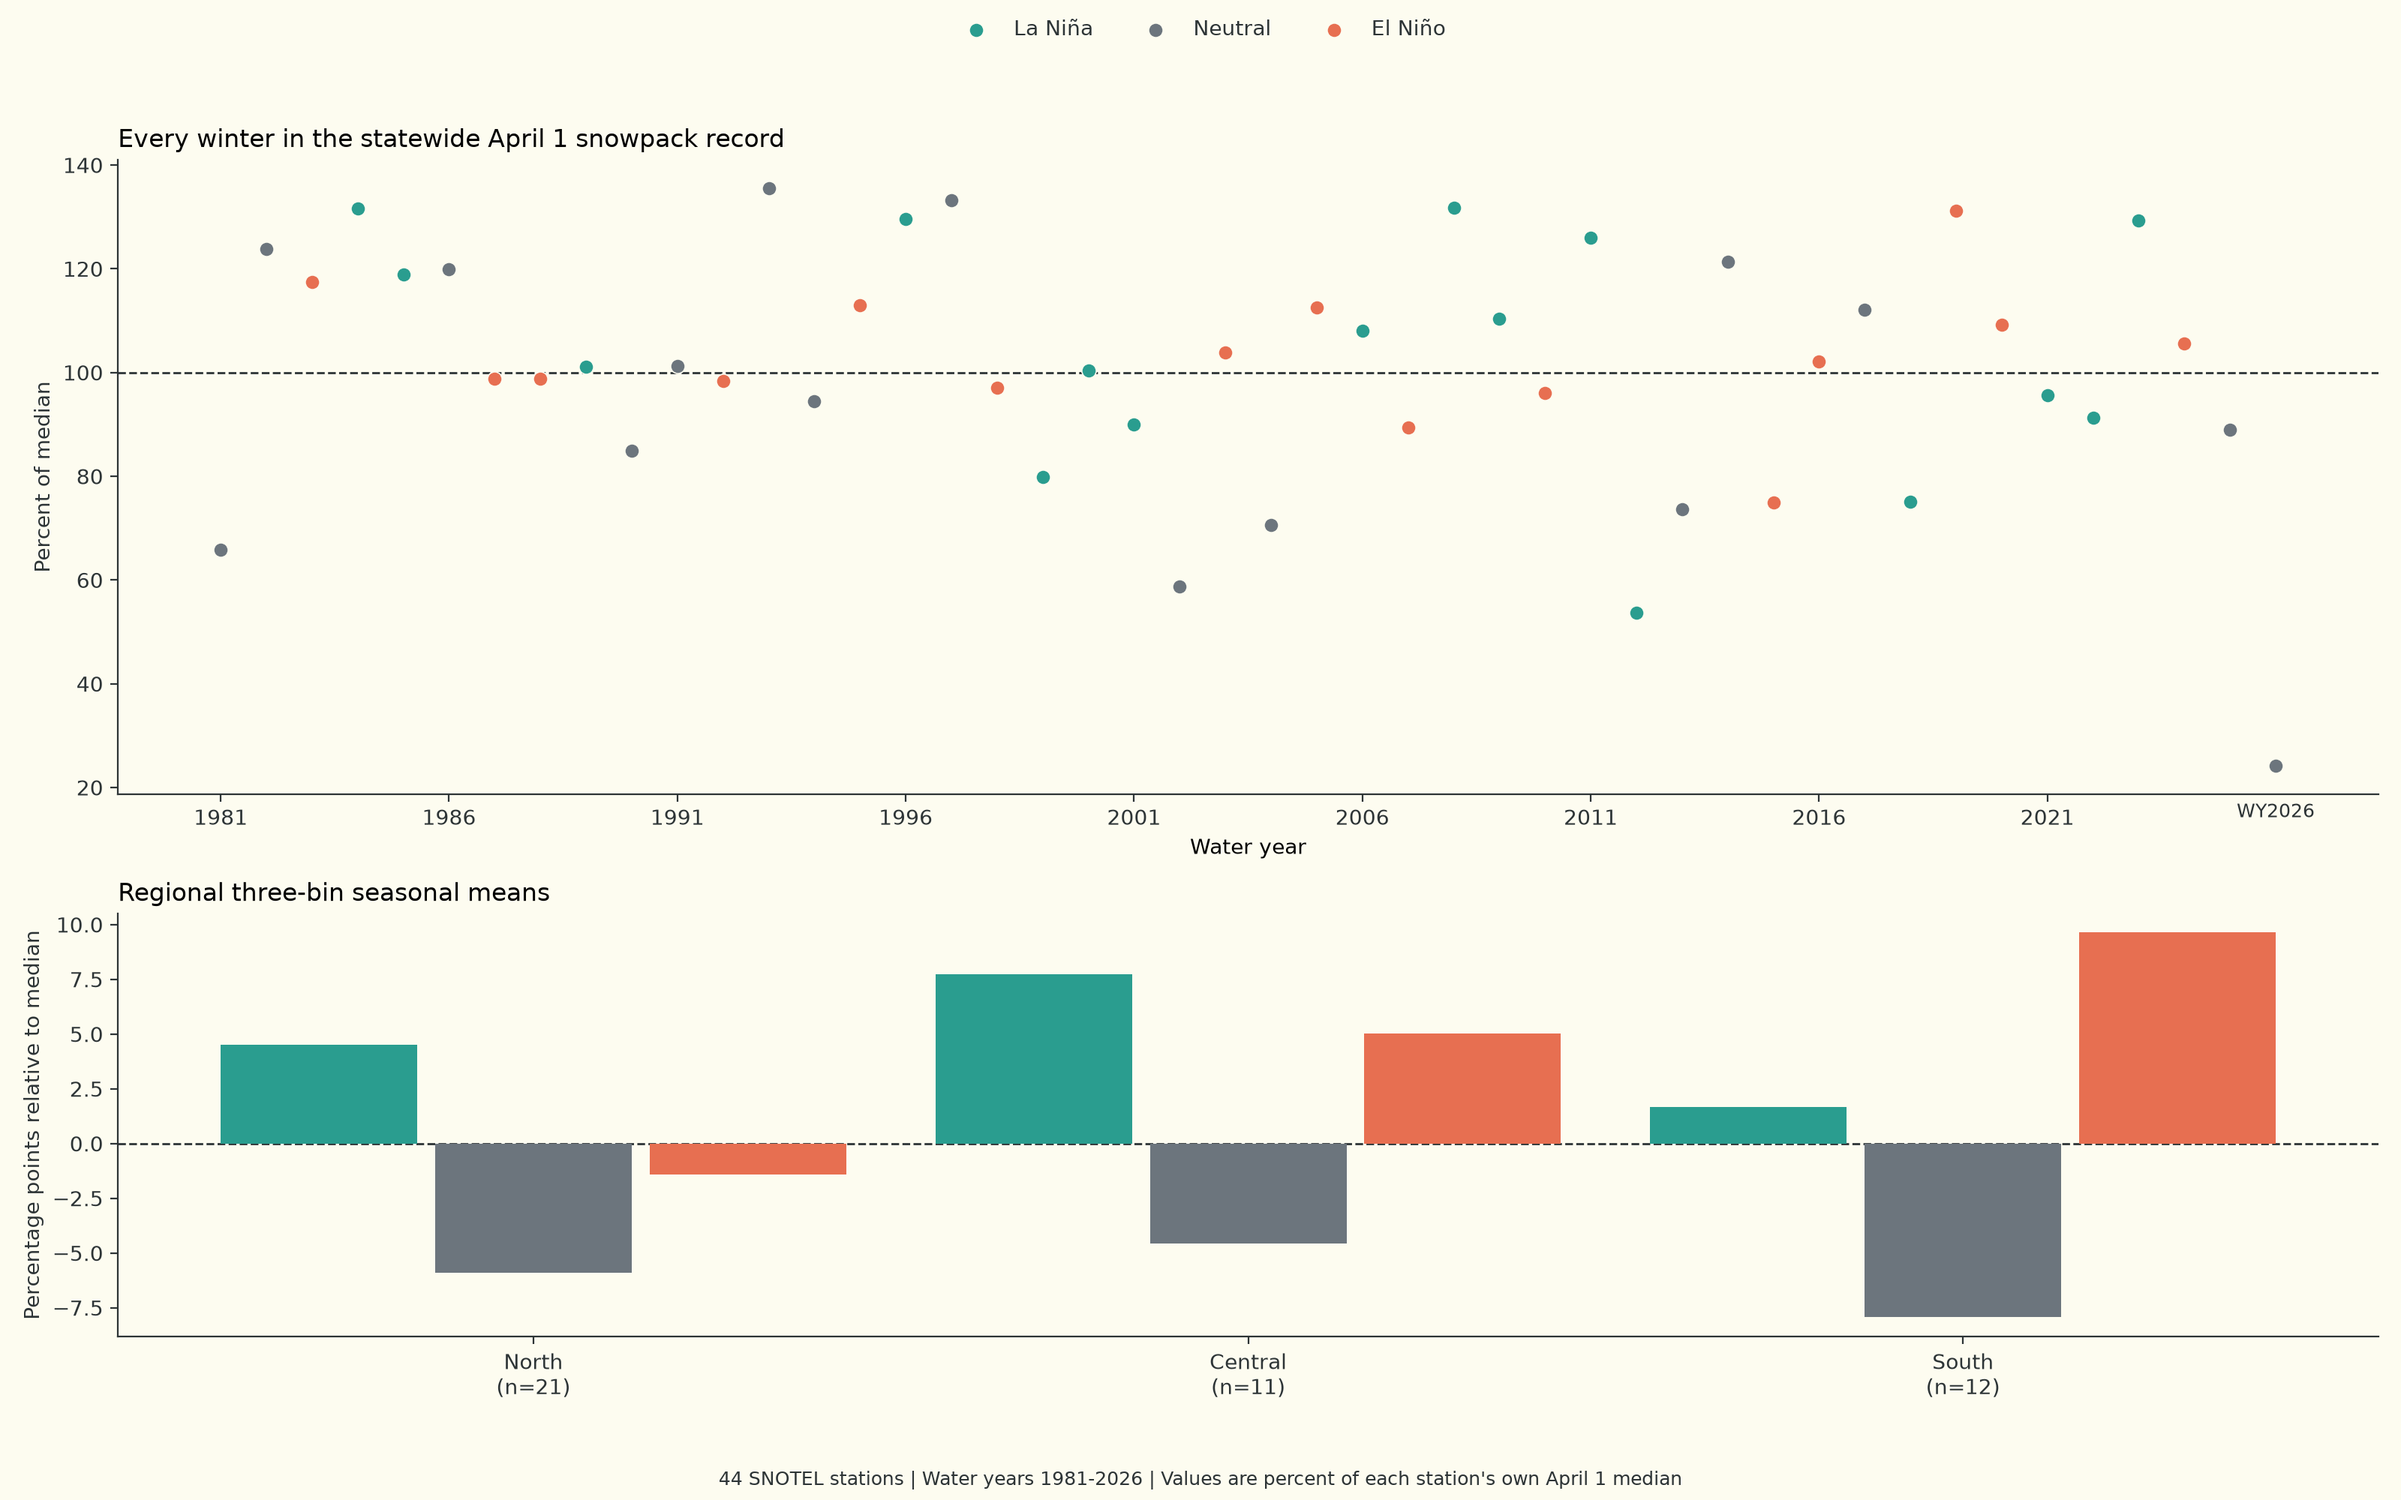
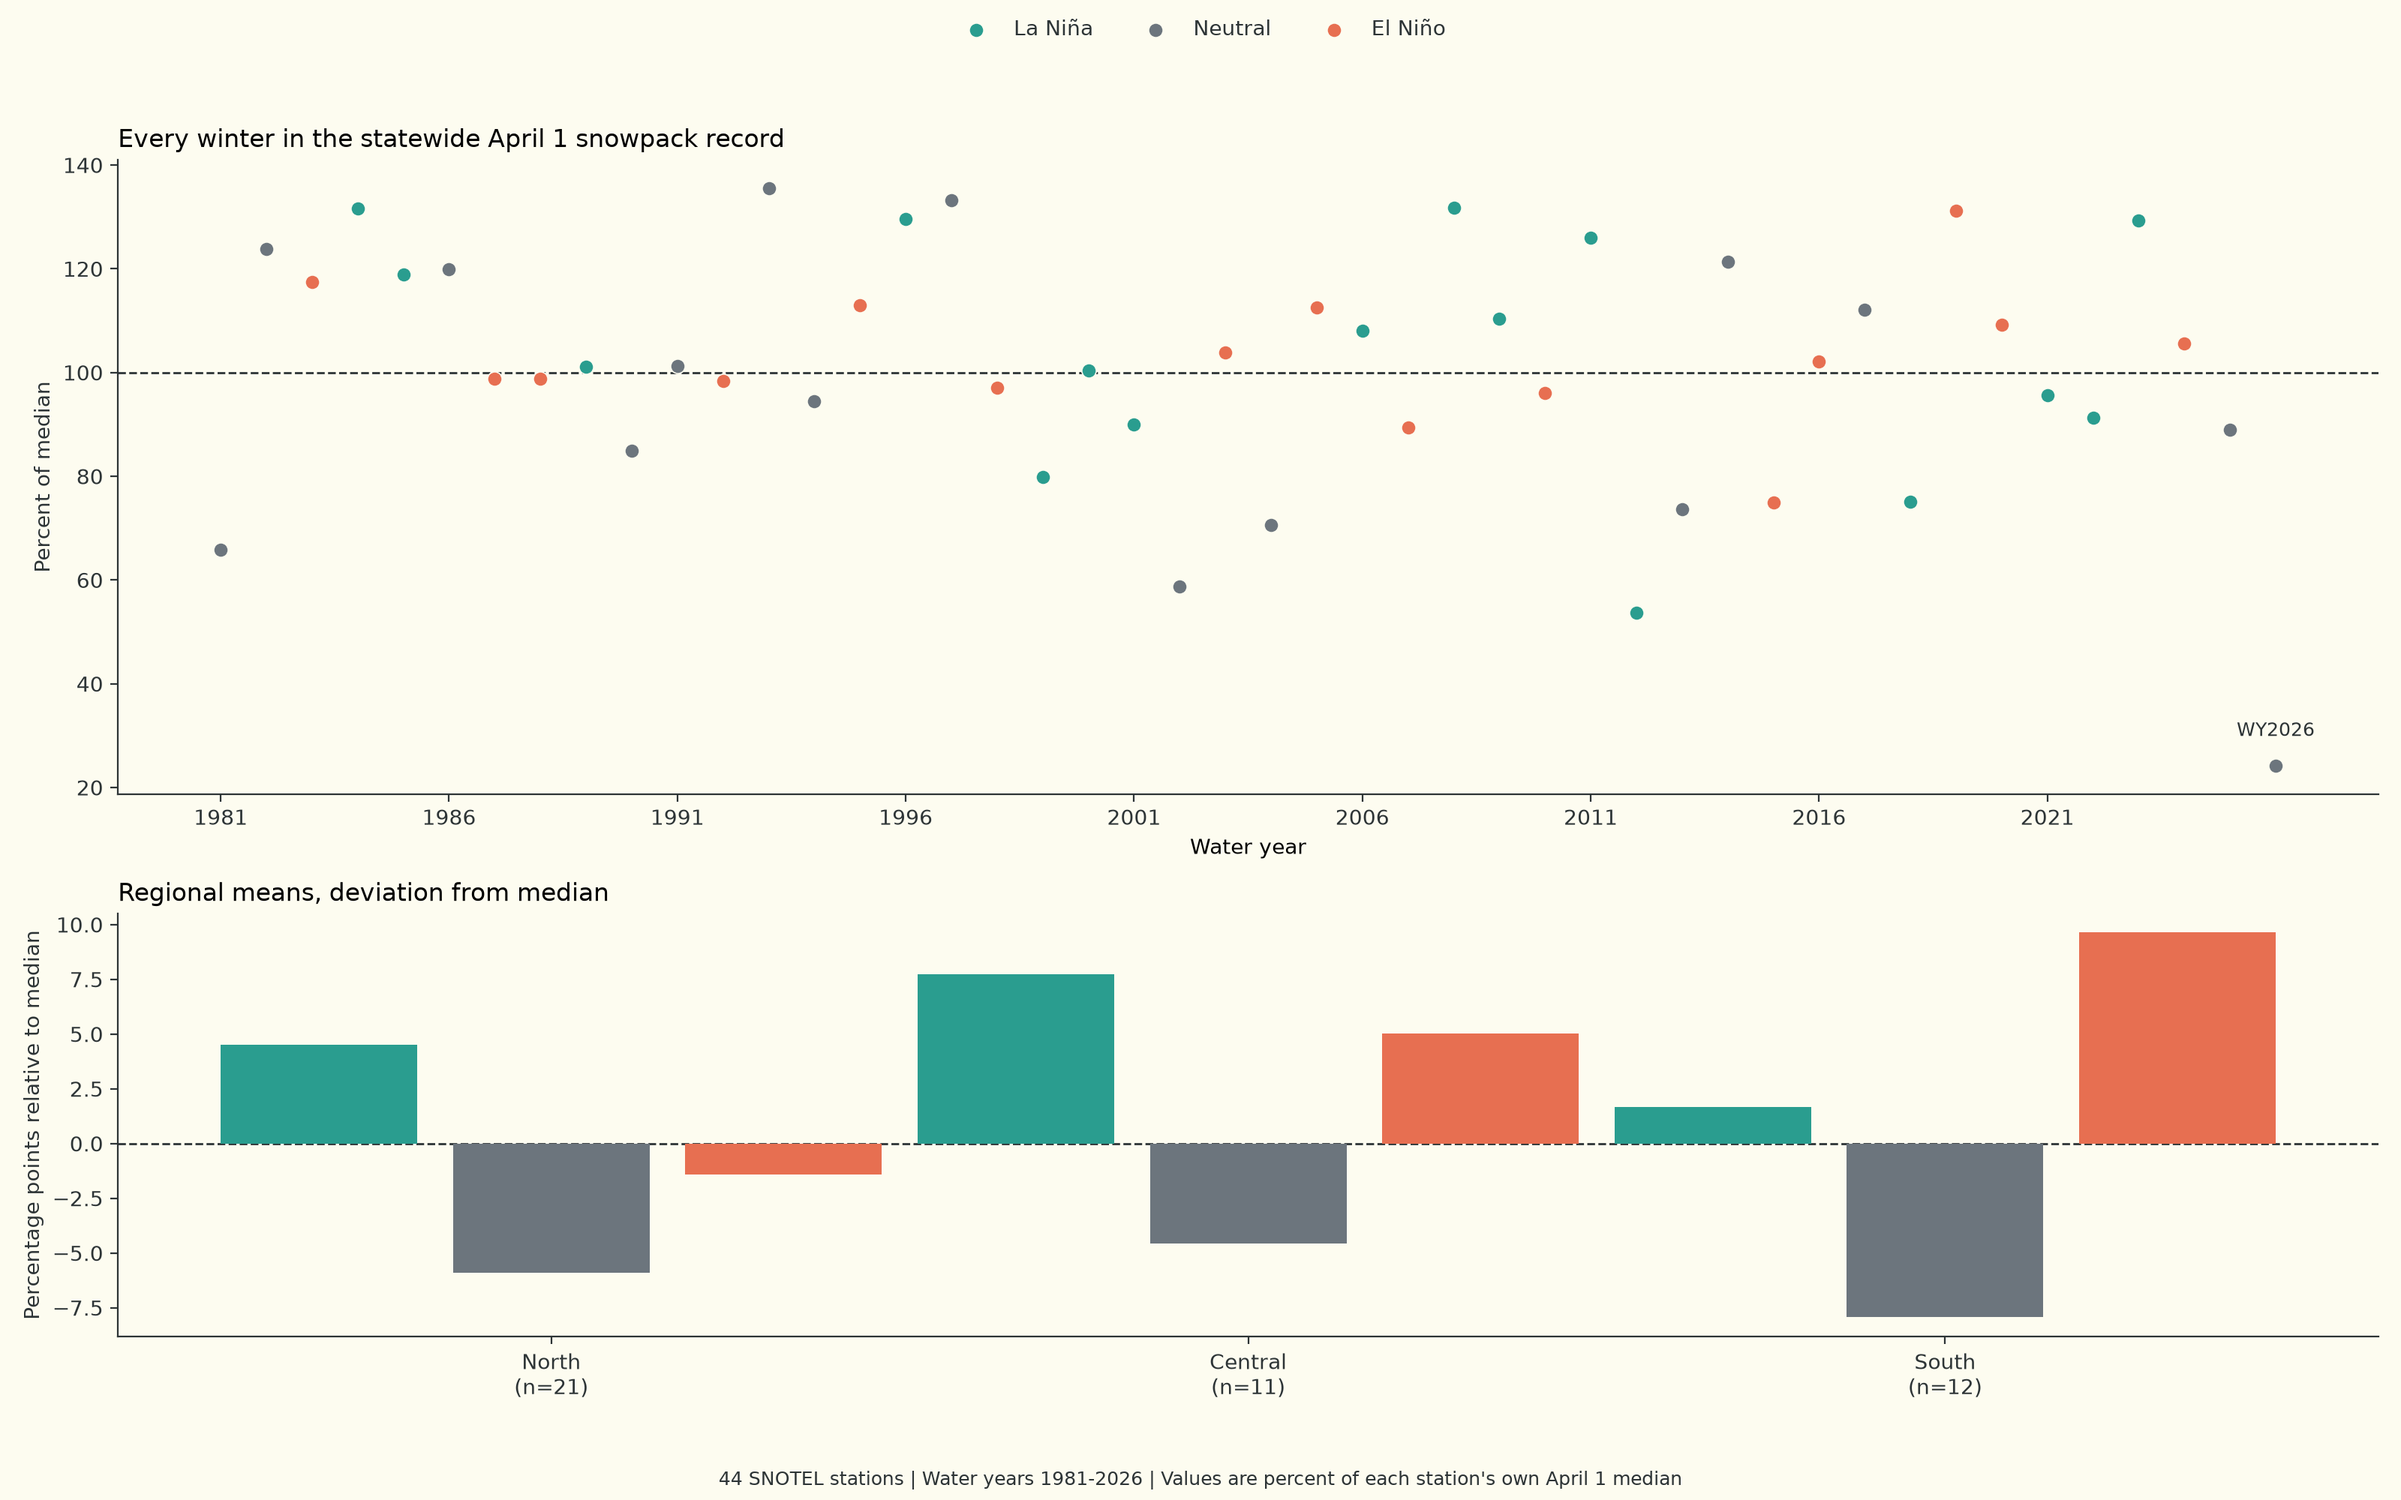
Update provenance timestamps and improve plot annotations for clarity

diff --git a/colorado_snowpack_enso.py b/colorado_snowpack_enso.py
@@ -1275,10 +1275,10 @@ def plot_results(stats_payload: Dict[str, object], output_path: Path) -> None:
     ax_seasonal.annotate(
         f"WY{lowest_water_year}",
         xy=(lowest_water_year, lowest_index),
-        xytext=(0, -18),
+        xytext=(0, 12),
         textcoords="offset points",
         ha="center",
-        va="top",
+        va="bottom",
         color=text_color,
         fontsize=9,
         fontfamily=FIGURE_FONT_FAMILY,
@@ -1294,9 +1294,9 @@ def plot_results(stats_payload: Dict[str, object], output_path: Path) -> None:
         ]
     )
 
-    region_positions = [index * 0.8 for index in range(len(REGION_ORDER))]
+    region_positions = [index * 0.78 for index in range(len(REGION_ORDER))]
     bar_width = 0.22
-    bar_spacing = 0.24
+    bar_spacing = 0.26
     for phase_index, phase_name in enumerate(THREE_BIN_ORDER):
         offsets = [
             position + (phase_index - (len(THREE_BIN_ORDER) - 1) / 2) * bar_spacing
@@ -1320,7 +1320,7 @@ def plot_results(stats_payload: Dict[str, object], output_path: Path) -> None:
     ax_regional.set_xticklabels(
         [f"{region.title()}\n(n={region_counts[region]})" for region in REGION_ORDER]
     )
-    ax_regional.set_title("Regional three-bin seasonal means", loc="left")
+    ax_regional.set_title("Regional means, deviation from median", loc="left")
     ax_regional.set_ylabel("Percentage points relative to median")
 
     handles, labels = ax_seasonal.get_legend_handles_labels()
